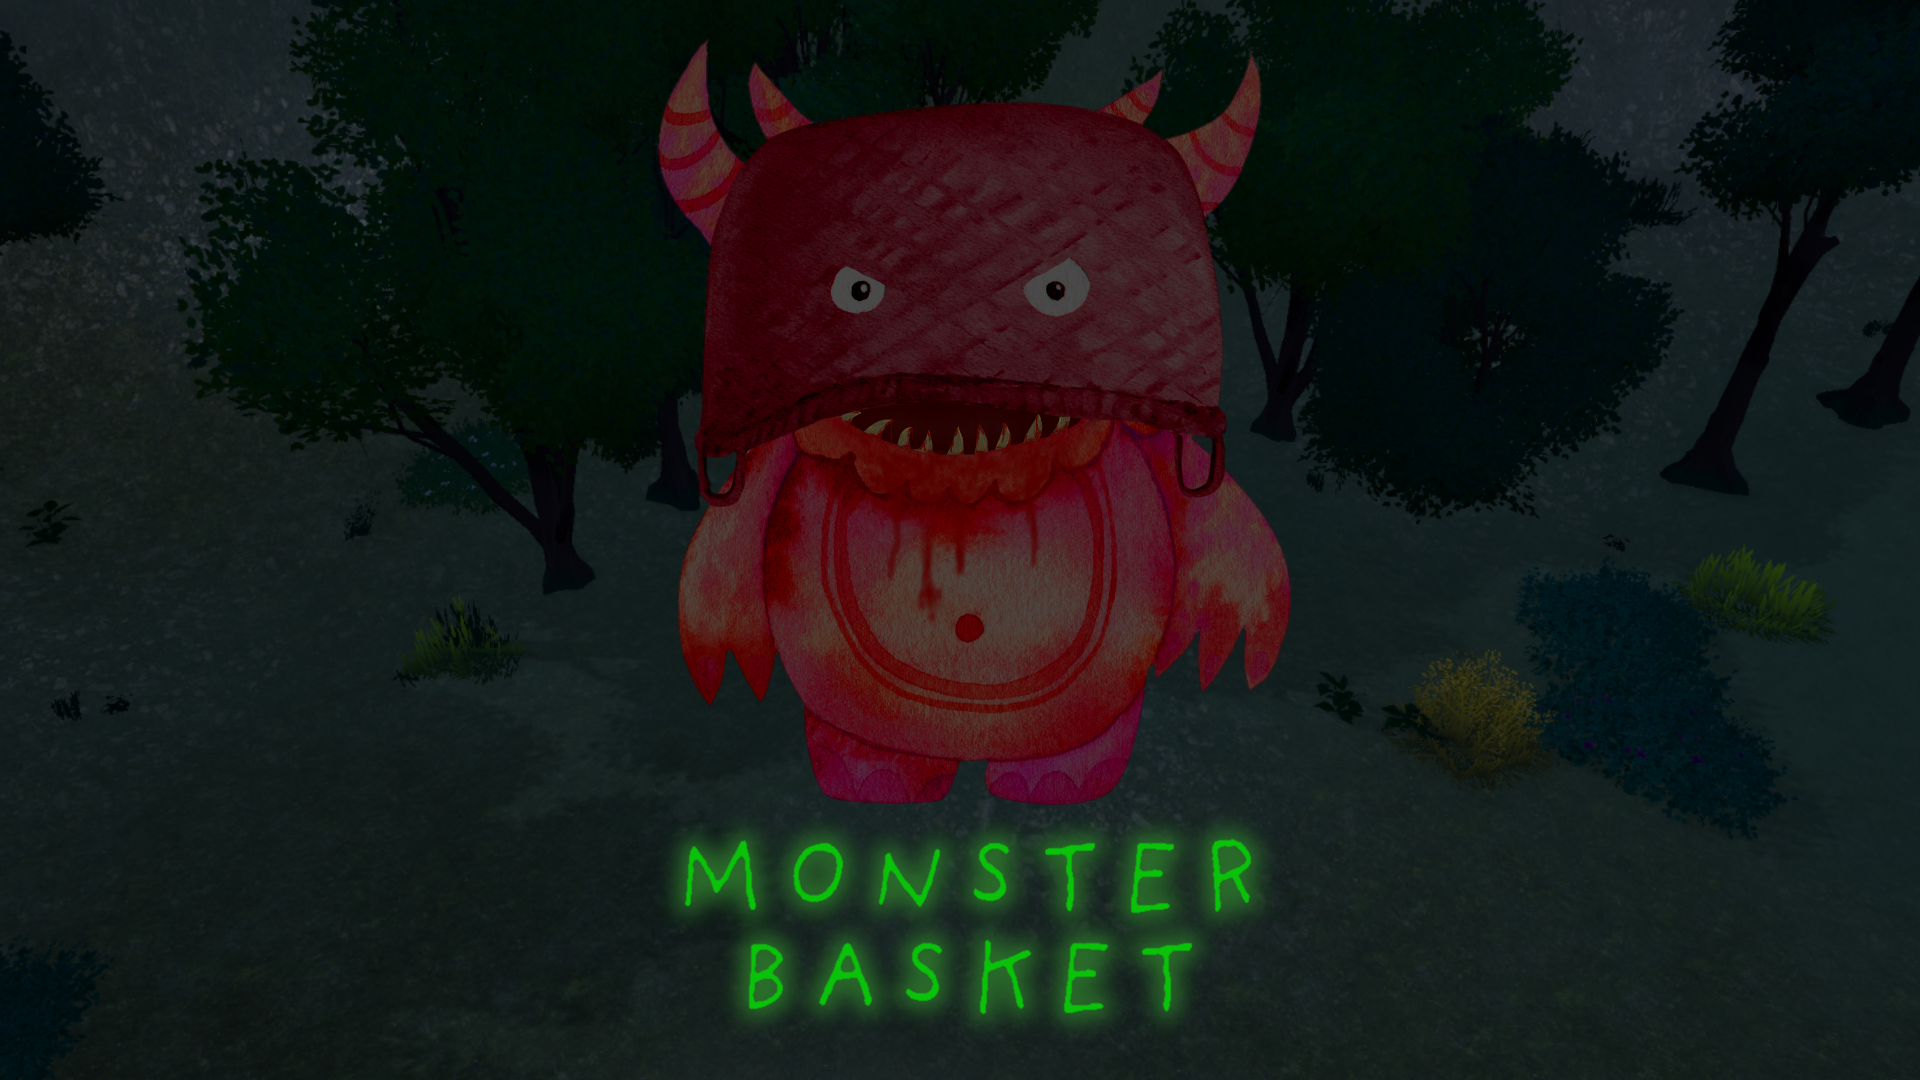
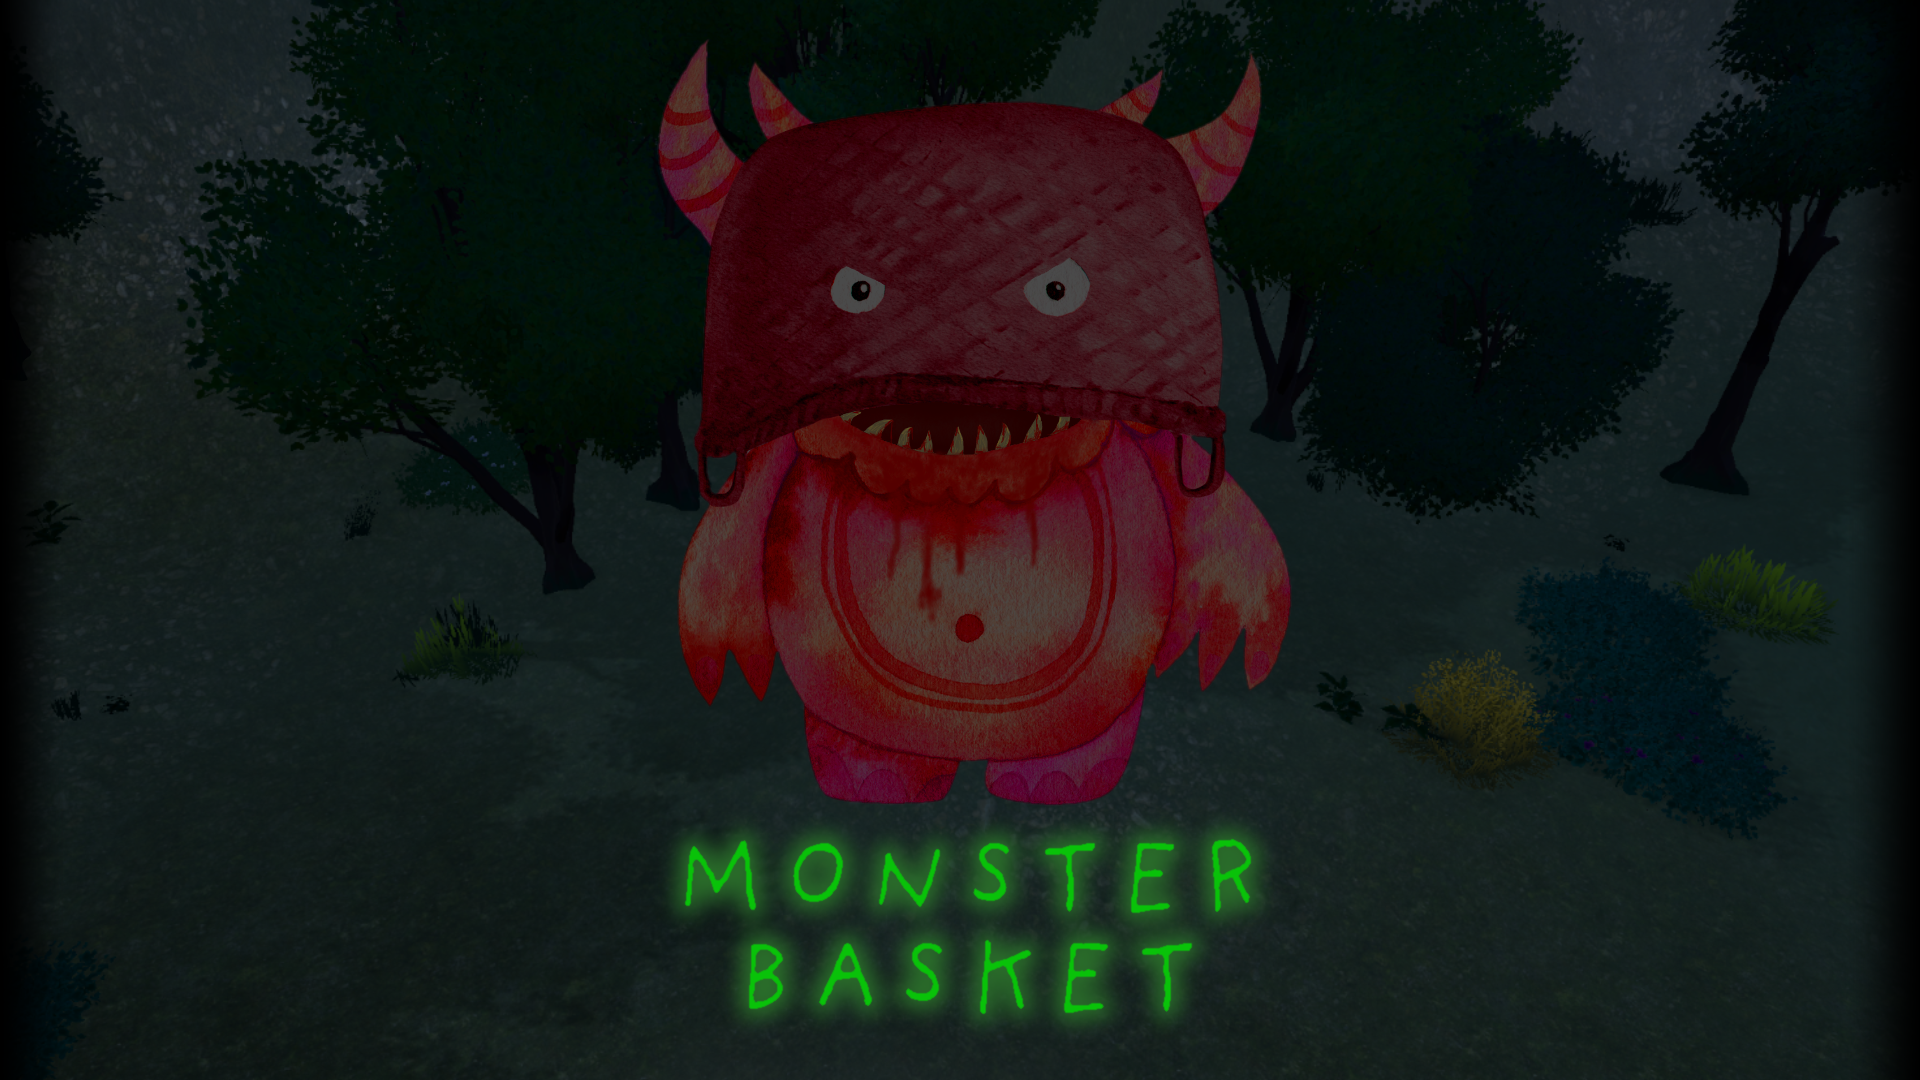
menu complete and CSS (seems) to be sorted out between the three pages

diff --git a/src/components/Splash.js b/src/components/Splash.js
@@ -6,6 +6,11 @@ export default function Main(){
   // get reference to canvas and save canvas offsets
   const canvasRef = useRef();
   const canvas = useRef();
+  const imgSize = {
+    c: (window.innerWidth - (window.innerHeight / 9 * 16)) / 2,
+    x: window.innerHeight / 9 * 16,
+    y: window.innerHeight
+  }
 
   useEffect(() => {
     canvas.current = canvasRef.current;
@@ -28,7 +33,7 @@ export default function Main(){
 
         img.addEventListener("load", () => {
           // Image is loaded, now draw it
-          this.ctx.drawImage(img, 0, 0, window.innerWidth, window.innerHeight);
+          this.ctx.drawImage(img, imgSize.c, 0, imgSize.x, imgSize.y);
         });
         this.ctx.canvas.width  = window.innerWidth;
         this.ctx.canvas.height = window.innerHeight;
@@ -79,7 +84,7 @@ export default function Main(){
 
         this.ctx.strokeStyle = "red"
         this.ctx.clearRect(0,0, window.innerWidth, window.innerHeight);
-        this.ctx.drawImage(img, 0, 0, canvas.current.width, canvas.current.height);
+        this.ctx.drawImage(img, imgSize.c, 0, imgSize.x, imgSize.y);
         this.ctx.globalCompositeOperation = "destination-out";
 
         for (let j = 0; j < this.strokes.length; j++) {
@@ -108,16 +113,36 @@ export default function Main(){
         requestAnimationFrame(this._draw.bind(this))
       };
 
+      function updateScreen(){
+        imgSize.c = (window.innerWidth - (window.innerHeight / 9 * 16)) / 2
+        imgSize.x = window.innerHeight / 9 * 16
+        imgSize.y = window.innerHeight
+        brush.ctx.canvas.width  = window.innerWidth;
+        brush.ctx.canvas.height = window.innerHeight;
+        brush.ctx.lineCap = brush.ctx.lineJoin = 'round';
+      }
+
+      function handleMouseMove(e){
+        document.documentElement.style.setProperty('--x', e.clientX + 'px');
+        document.documentElement.style.setProperty('--y', e.clientY + 'px');
+      }
+      
       // Set up brush to listen to events
       const brush = new PrimitiveBrush(canvas.current.getContext('2d', {alpha: true}));
 
       canvas.current.addEventListener('mousedown', brush.start.bind(brush));
       canvas.current.addEventListener('mousemove', brush.move.bind(brush));
       canvas.current.addEventListener('mouseup', brush.end.bind(brush));
-      document.addEventListener('mousemove', e => {
-        document.documentElement.style.setProperty('--x', e.clientX + 'px');
-        document.documentElement.style.setProperty('--y', e.clientY + 'px');
-      })
+      document.addEventListener('mousemove', handleMouseMove)
+      window.addEventListener('resize', updateScreen);
+
+      return () => {
+        window.removeEventListener('resize', updateScreen);
+        document.removeEventListener('mousemove', handleMouseMove)
+        canvas.current.removeEventListener('mousedown', brush.start.bind(brush));
+        canvas.current.removeEventListener('mousemove', brush.move.bind(brush));
+        canvas.current.removeEventListener('mouseup', brush.end.bind(brush));
+      };
     }
   }, []);
 
@@ -125,7 +150,6 @@ export default function Main(){
   <div id="bg">
     <canvas ref={canvasRef} id="drawing"></canvas>
     <div className="dark"></div>
-    <div className="cursor"></div>
   </div>
   );
 }

diff --git a/src/components/Menu.js b/src/components/Menu.js
@@ -34,7 +34,7 @@ export default function MonsterMenu(){
     if (e.target.className === "monsterMenuButton") {
       setTimeout(() => setMC("closed"), 500);
     }
-    else setMC("closed")
+    else if (e.target.id !== "monsterMenu") setMC("closed")
   }
 
   function toggle(e){
@@ -45,10 +45,10 @@ export default function MonsterMenu(){
   return <>
     <button ref={detRef} id="monsterMenu" onClick={e => toggle(e)}>&equiv;
       <ul className={menuClose}>
-        <li className="monsterMenuButton">Home</li>
-        <li className="monsterMenuButton">Something</li>
+        <Link to ="/#bg"      ><li className="monsterMenuButton">Home</li></Link>
+        <Link to ="/portfolio"><li className="monsterMenuButton">Something</li></Link>
         <Link to ="/portfolio"><li className="monsterMenuButton">James's Portfolio</li></Link>
-        <Link to ="/playOld"><li className="monsterMenuButton">Old Game</li></Link>
+        <Link to ="/playOld"  ><li className="monsterMenuButton">Old Game</li></Link>
       </ul>
     </button>
   </>

diff --git a/src/CSS/menu.css b/src/CSS/menu.css
@@ -1,5 +1,6 @@
 #monsterMenu{
   position: fixed;
+  z-index: 10;
   top: 10px;
   right: 10px;
   width: 40px;
@@ -11,19 +12,10 @@
   line-height: 30px;
   font-size: 40px;
 }
-summary{
-  background: white;
-  width: 40px;
-  height: 40px;
-  border-radius: 5px;
-}
-summary::marker {
-  content: "";
-}
 ul.open{
   position: fixed;
   margin-block-start: 20px;
-  padding-inline-start: 0px;
+  right: 10px;
   width: 150px;
   height: auto;
   visibility: visible;
@@ -31,17 +23,18 @@ ul.open{
 }
 ul.closed{
   position: fixed;
-  margin-block-start: -30px;
-  padding-inline-start: 0px;
+  margin-block-start: -35px;
+  right: 0px;
   width: 40px;
   height: 40px;
   overflow: clip;
   visibility: hidden;
   transition: all 0.2s;
+  scale: 0.5;
 }
 li{
+  position: relative;
   list-style-type: none;
-  list-style-position: outside;
   height: 35px;
   text-align: left;
   background: white;
@@ -55,4 +48,7 @@ a:first-child li{
 }
 a:last-child li{
   border-radius: 0 0  10px 10px;
+}
+a{
+  text-decoration: none;
 }

diff --git a/src/CSS/splash.css b/src/CSS/splash.css
@@ -1,7 +1,6 @@
 body{
   margin: 0;
   overflow: hidden;
-  cursor: none;
 }
 #bg{
   position: absolute;
@@ -13,7 +12,10 @@ body{
   width: 100%;
   height: 100%;
   background: url("../images/dark monster.png");
-  background-size: 100vw 100vh;
+  background-size: auto 100vh;
+  background-repeat: no-repeat;
+  background-position-x: calc((100vw - 100vh / 9 * 16) / 2);
+  aspect-ratio: 16/9;
   pointer-events: none;
 }
 #drawing{
@@ -21,12 +23,12 @@ body{
   left: 0px;
   top: 0px;
 }
-.cursor{
+/* .cursor{
   position: absolute;
   pointer-events: none;
-  -webkit-user-select: none; /* Safari */
-  -ms-user-select: none; /* IE 10 and IE 11 */
-  user-select: none; /* Standard syntax */
+  -webkit-user-select: none; /* Safari *
+  -ms-user-select: none; /* IE 10 and IE 11 *
+  user-select: none; /* Standard syntax *
 }
 .cursor{
   background: #9FFF71;
@@ -36,4 +38,4 @@ body{
   left: calc(var(--x) - 2vw);
   top: calc(var(--y) - 2vw);
   pointer-events: none;
-}
+} */

diff --git a/src/App.js b/src/App.js
@@ -2,6 +2,7 @@ import { Route, Routes, useNavigate } from "react-router-dom";
 import { useEffect, useState } from 'react';
 import './App.css';
 import Monster from './components/Monster.js';
+import MonsterMenu from './components/Menu.js'
 
 // import './portfolio/components/CSS/App.css';
 import PortSplash from './portfolio/components/Splash.tsx'
@@ -73,6 +74,7 @@ export default function App() {
         <Route path="/" element={<Monster />} />
         <Route path="/portfolio" element={
           <PortSplash>
+            <MonsterMenu />
             <Hello />
             <Tabs buttonWidth={buttonWidth} buttonOpacity={buttonOpacity} turnToCheat={turnToCheat} setTurnToCheat={setTurnToCheat} names={["About", "Projects", "Work", "Contact"]}>
               <Contact turnToCheat={turnToCheat} />

diff --git a/src/components/Monster.js b/src/components/Monster.js
@@ -1,5 +1,6 @@
 import Splash from "./Splash";
 import Menu from "./Menu";
+import "../CSS/monster.css"
 
 export default function Monster(){
 

diff --git a/src/old_game/Pages/Admin/admin.css b/src/old_game/Pages/Admin/admin.css
@@ -8,7 +8,7 @@
   background-color: darkblue;
   border: solid white 1px;
 }
-a {
+#adminPortal a {
   text-decoration: none;
   color:red;
 }

diff --git a/src/CSS/monster.css b/src/CSS/monster.css
@@ -1,0 +1,3 @@
+body{ 
+  background: black;
+}
